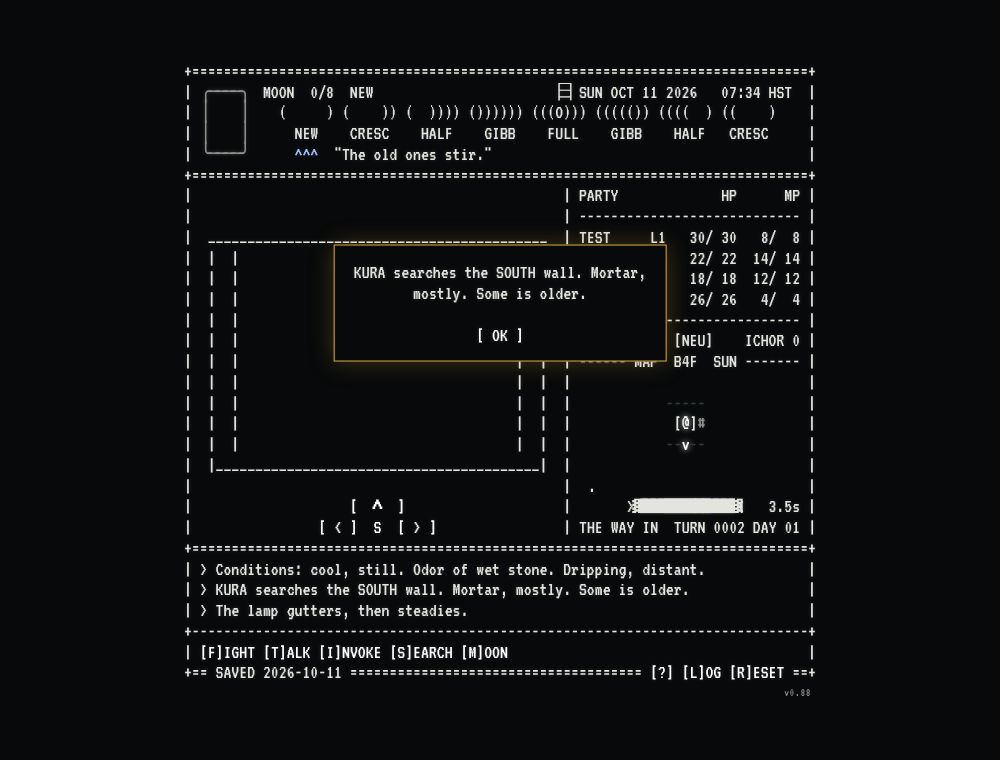
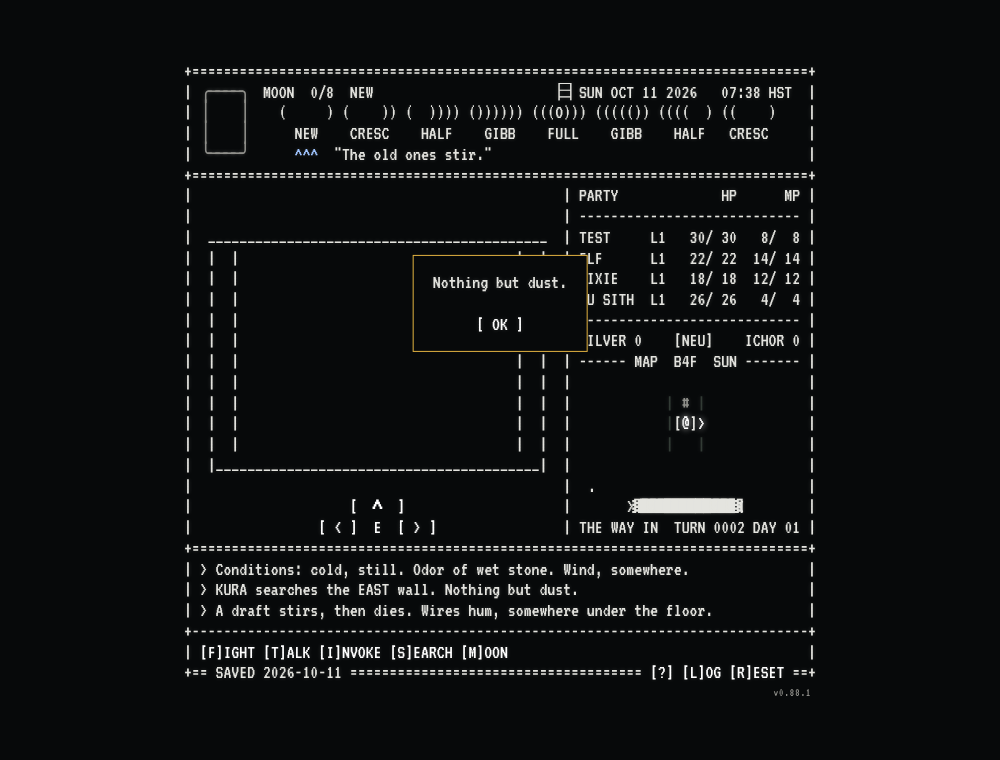
v0.88.1: the popup shows only the result, without the glow; the countdown shows only while out of breath
Claude-Session: https://claude.ai/code/session_013UWqGfRK4VFjqaPgWYa8SW

diff --git a/index.html b/index.html
@@ -78,6 +78,7 @@
   .logview .dim { color: var(--trail); }
   .foundbox { position: absolute; left: 50%; top: 38%; transform: translate(-50%, -50%); background: var(--bg);
     border: 1px solid var(--gold); padding: 1em 3ch; cursor: pointer; box-shadow: 0 0 24px rgba(227, 179, 65, 0.25); }
+  .foundbox.plain { box-shadow: none; }
   .foundbox pre { white-space: pre; text-align: center; }
   .foundbox .gold { color: var(--gold); }
   .nameinput { background: var(--bg); color: var(--fg); border: 1px solid var(--trail); font: inherit; width: 11ch; padding: 0 4px; text-transform: uppercase; }
@@ -1119,10 +1120,13 @@
   function resultBox() {
     const box = document.getElementById("found"), pre = box.querySelector("pre");
     const add = (t, cls) => { const d = document.createElement("div"); d.textContent = t; if (cls) d.className = cls; pre.appendChild(d); };
-    const said = [save.log, save.look && /^> (Moonlight|The moon|KURA asks)/.test(save.extra || "") ? save.extra : null]   // (with the moon's answer, when she gave one)
-     .filter(Boolean).map(l => String(l).replace(/^> /, ""));
+    // Only what came of it: "KURA searches the SOUTH wall." and "KURA scries the moon." are dropped from the front.
+    // After a scry, the moon's own line (her answer, or her silence) follows.
+    const said = [save.log, save.look && /^> (Moonlight|The moon|KURA asks)/.test(save.extra || "") ? save.extra : null].filter(Boolean)
+      .map(l => String(l).replace(/^> /, "").replace(/^KURA (searches|scries) the [A-Za-z ]+?\.\s*/, "")).filter(Boolean);
     if (!said.length) return;
     floatBox(box);
+    box.classList.add("plain");                       // the gold border, without the glow around it
     pre.innerHTML = "";
     said.forEach((l, k) => { if (k) add(" "); for (const w of wrapText(l, 38)) add(w); });
     add(" ");
@@ -1448,7 +1452,8 @@
     return true;
   }
 
-  // The countdown beside the breath bar: seconds to the next breath, to a tenth. Five cells, blank when she has them all.
+  // The countdown beside the breath bar: seconds until she may act again, to a tenth, shown only while she is out
+  // of breath. Five cells, blank otherwise.
   const breathTimer = () => { const ms = save && save.dungeon && !save.dead && RULES.breathNext ? RULES.breathNext(save) : null; return (ms === null ? "" : (ms / 1000).toFixed(1) + "s").padStart(5); };
   setInterval(() => { const el = document.getElementById("breathT"); if (el && !atTitle) { const t = breathTimer(); if (el.textContent !== t) el.textContent = t; } }, 100);   // only its own five cells change: the screen is not redrawn
   let seenBreath = null, seenLog = null;        // what the last frame showed, to notice a breath being spent

diff --git a/rules.js b/rules.js
@@ -644,13 +644,14 @@
     if (write) { if (n >= BREATH_MAX) delete st.breath; else st.breath = { n, at }; }
     return n;
   }
-  // How long until the next breath is back, in milliseconds (null when she has them all).
+  // How long until she may act again, in milliseconds: the time until she has a whole breath, counted only while
+  // she has less than one (null otherwise).
   function breathNext(st) {
     const b = st.breath, now = TIME.now().getTime();
     if (!b || !(b.n < BREATH_MAX)) return null;
     let n = Math.max(0, b.n), at = Math.min(b.at, now + BREATH_WAIT);
     while (n < BREATH_MAX && now - at >= breathStep(n).ms) { const s = breathStep(n); at += s.ms; n = s.to; }
-    return n >= BREATH_MAX ? null : Math.max(0, at + breathStep(n).ms - now);
+    return n >= 1 ? null : Math.max(0, at + breathStep(n).ms - now);
   }
   const STEP_BREATH = 0.5;                                // a step into another room: half of what a search takes
   function spendBreath(st, amount = 1) { const n = breathNow(st, true); st.breath = { n: Math.max(0, n - amount), at: TIME.now().getTime() + BREATH_WAIT }; }

diff --git a/screen.js b/screen.js
@@ -2,7 +2,7 @@
 // Shared by the web page (index.html) and node (for testing).
 (function (root) {
   // The build number: bumped with every release, so About and the changelog always match.
-  const VERSION = "v0.88";
+  const VERSION = "v0.88.1";
   const W = 80, VW = 47, VH = 17, OFF = [0, 3, 6];
   const L_ = o => 2 + o, R_ = o => 44 - o;
   const ljust = (s, n) => s.length >= n ? s : s + " ".repeat(n - s.length);
